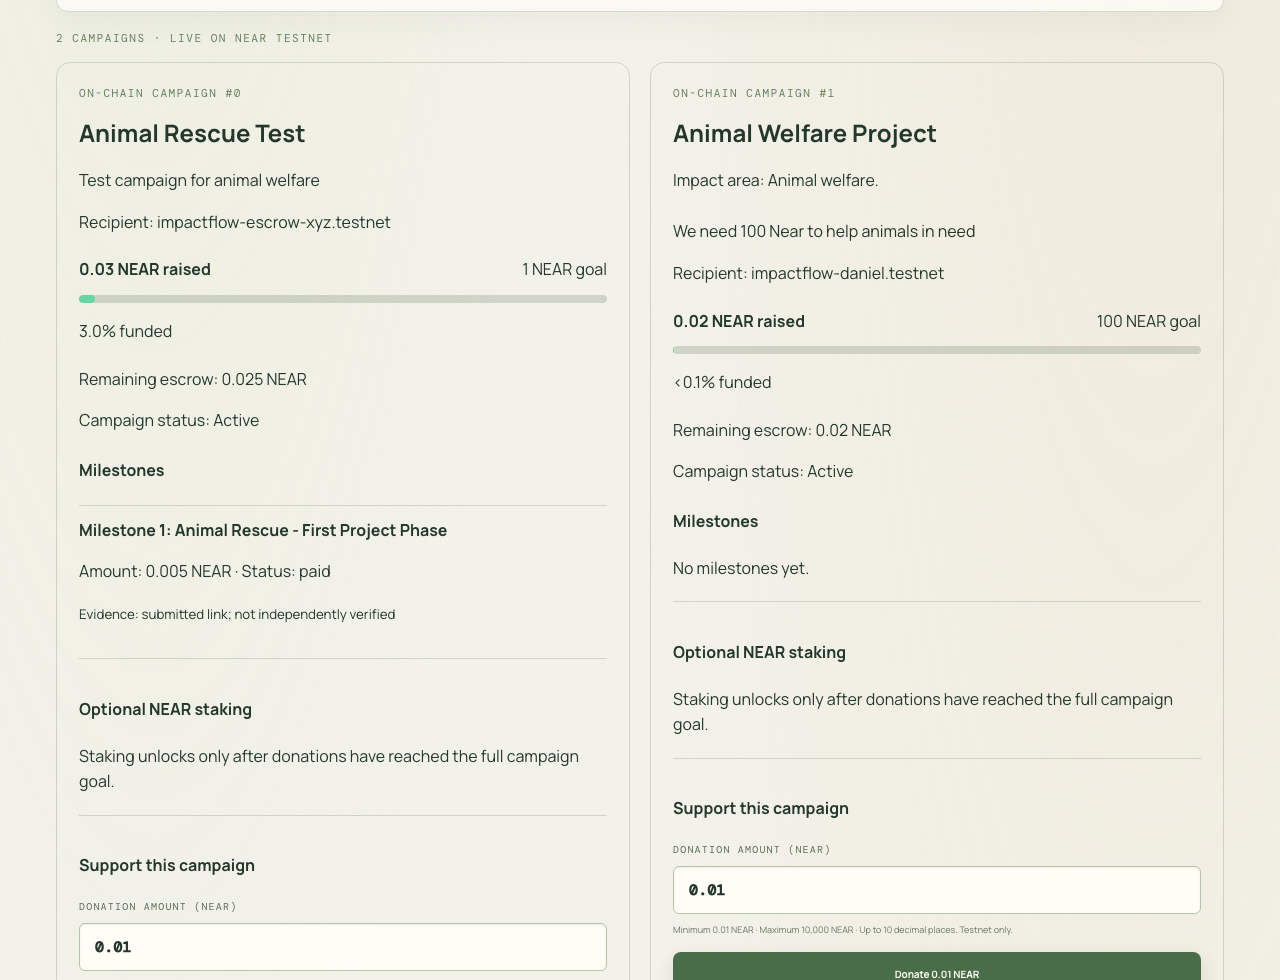
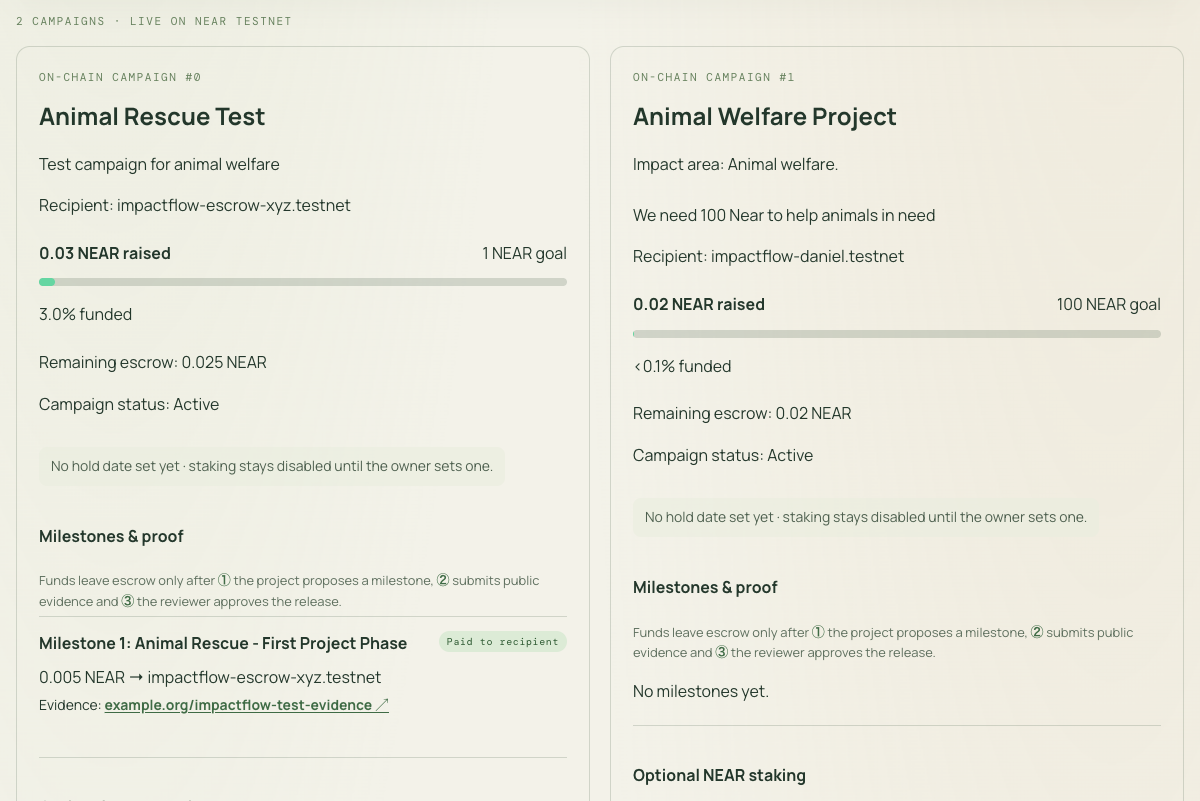
README: exact signer roles, current screenshots, storage deposit note
- Footnote that the first end-to-end run used the contract test account
  as project owner and donor; the separate user account is row 7
- Replace the outdated campaign screenshot (now shows milestones & proof
  and hold-date status) and add the live ledger
- Walkthrough mentions the hold date and the 0.05 NEAR storage deposit

diff --git a/README.md b/README.md
@@ -12,20 +12,24 @@ The escrow contract [`impactflow-escrow-xyz.testnet`](https://testnet.nearblocks
 
 | Step | Who signs | Transaction |
 |---|---|---|
-| 1. Create campaign | Project owner | [`Aw1hEF…`](https://testnet.nearblocks.io/txns/Aw1hEFnSKodjYBZVU3tNE8EEYGHb8G6rKqtUqwh2gDt5) |
+| 1. Create campaign | Project owner¹ | [`Aw1hEF…`](https://testnet.nearblocks.io/txns/Aw1hEFnSKodjYBZVU3tNE8EEYGHb8G6rKqtUqwh2gDt5) |
 | 2. Approve campaign | Reviewer | [`9EJWcc…`](https://testnet.nearblocks.io/txns/9EJWccZ4fjcBpMJg3tCQvbMaMzod6JZRdxWomgqiQL56) |
-| 3. Donate 0.01 NEAR into escrow | Donor | [`CpEdDs…`](https://testnet.nearblocks.io/txns/CpEdDspHcXWqD4pihxMB8xABMAjGcEYrbVFynhVATouC) |
-| 4. Propose milestone | Project owner | [`22zdjq…`](https://testnet.nearblocks.io/txns/22zdjqh5VveNad8384zfmQNZ6Y79N6p8wz7X2kTWxGu4) |
-| 5. Submit milestone evidence | Project owner | [`y37BpP…`](https://testnet.nearblocks.io/txns/y37BpPzz6ckH9wAfkM6C6gTHT1cGQp7hmkimeZeJhTm) |
+| 3. Donate 0.01 NEAR into escrow | Donor¹ | [`CpEdDs…`](https://testnet.nearblocks.io/txns/CpEdDspHcXWqD4pihxMB8xABMAjGcEYrbVFynhVATouC) |
+| 4. Propose milestone | Project owner¹ | [`22zdjq…`](https://testnet.nearblocks.io/txns/22zdjqh5VveNad8384zfmQNZ6Y79N6p8wz7X2kTWxGu4) |
+| 5. Submit milestone evidence | Project owner¹ | [`y37BpP…`](https://testnet.nearblocks.io/txns/y37BpPzz6ckH9wAfkM6C6gTHT1cGQp7hmkimeZeJhTm) |
 | 6. **Approve and release payout** | Reviewer | [`4cHHMk…`](https://testnet.nearblocks.io/txns/4cHHMkS8WauiwEX5Tsv26y9frNgq3Uhy3Lkruq3ZTzaT) |
 | Wallet-signed campaign + donations from a separate user account | `impactflow-daniel.testnet` | [`DVnp9B…`](https://testnet.nearblocks.io/txns/DVnp9BSFmFf6KqCnrgKCW8shTeDjFoGbejbxyYajUeMu), [`EUgDNS…`](https://testnet.nearblocks.io/txns/EUgDNS6P1fyLbduWN2XiTiUwuMBAfDtEjse5sWFWuteC) |
 | Upgrade to v2 (ongoing funds) + state-preserving migration | Contract / reviewer | [`5RtMdN…`](https://testnet.nearblocks.io/txns/5RtMdNWrsEk6LqxtN74raMkJiPwQR2HCLWWPCEspGSpT), [`3dTZFF…`](https://testnet.nearblocks.io/txns/3dTZFFnTPNLKWyiQbs5qStL9cb1HezjrydanfJD6hBPs) |
 | Upgrade to v3 (campaign hold dates) + state-preserving migration | Contract / reviewer | [`9dYo1D…`](https://testnet.nearblocks.io/txns/9dYo1DbiFxuZPWTmaH1YUUqccmJBuUEG8QivRKkyPRdW), [`HiCh4n…`](https://testnet.nearblocks.io/txns/HiCh4nkPasWq5zzRtfmHwmhgzMvaU273dvtohGSxExcE) |
 | Security hardening: storage deposit for new campaigns, milestone cap (code-only) | Contract | [`rMR4mW…`](https://testnet.nearblocks.io/txns/rMR4mWUopMhzErJ7EdGhg8LhKFf2CeiLQiSYvqu4YP7) |
 
+¹ In this first end-to-end run, the test account `impactflow-escrow-xyz.testnet` played both project owner and donor, and `impactflow-reviewer-xyz.testnet` was the reviewer. A separate user account, `impactflow-daniel.testnet`, later created its own campaign and donated through the wallet in the app (row 7).
+
 **The deployed code is the code in this repo.** The on-chain code hash `8wqUojNLmRQcWiYGsvr2hWYsvBU9Ytfxk9beB7Akdrym` matches a release build of [`contract/src/lib.rs`](contract/src/lib.rs). [Reproduce it below](#verify-the-deployed-contract).
 
-![Live on-chain campaigns read from NEAR Testnet](docs/screenshots/escrow-testnet.png)
+![Live on-chain campaigns read from NEAR Testnet, with the paid milestone and its evidence link](docs/screenshots/escrow-testnet.png)
+
+![Live ledger of escrow transactions, each linked to NearBlocks](docs/screenshots/live-ledger.png)
 
 ## What ImpactFlow does
 
@@ -56,7 +60,7 @@ Open <http://localhost:5173>. `dev:all` starts the API on port 8787 and the webs
 
 1. **Escrow (Explore section).** The two campaign cards are read live from the Testnet contract. Campaign #0 shows a milestone with status `paid`, the result of the payout transaction above.
 2. **Donate.** Select **Connect Testnet wallet**, then **Donate 0.01 NEAR** on an active campaign. The raised total updates from the contract.
-3. **Create a campaign.** Fill in **Create a testnet campaign**. It stays inactive until the reviewer account approves it.
+3. **Create a campaign.** Fill in **Create a testnet campaign**, including a hold date. The wallet attaches a 0.05 NEAR storage deposit; the contract keeps only the storage cost and refunds the rest. The campaign stays inactive until the reviewer account approves it.
 4. **Proof flow.** As the campaign owner, use **Propose milestone on-chain**, then paste a public HTTPS link and select **Submit evidence on-chain**. Connected as the reviewer, the milestone shows **Approve & release**, which pays the fixed recipient from escrow.
 5. **Live ledger.** In **See where every token goes**, every row is a real escrow transaction; click one to open it on NearBlocks.
 6. **Cross-chain.** Open **Cross-chain** and wait for the asset list. Pick two assets, enter recipient and refund addresses, then select **Get live quote preview**. This is a dry run, so no funds move.
